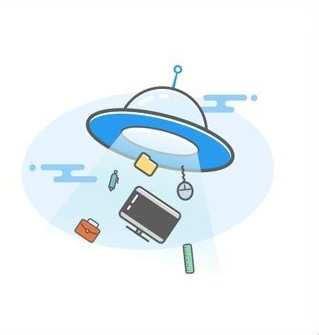
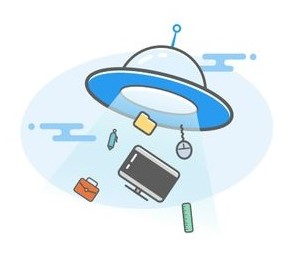
add css style

diff --git a/css/main.css b/css/main.css
@@ -1,41 +1,61 @@
     
-    body{
-    background-color: rgb(255, 255, 255);
+   body * {
+        box-sizing: border-box;
+        margin: 0;
+        padding: 0;
+   }
+
+   body{
+        background-color: rgb(255, 255, 255);
     }
 
     main{
         display: inline-block;
-        width: 50%; 
+        width: 50%;
         margin-top: 10%; 
         margin-left: 25%;
     }
 
     div{
-        width: 35%; 
+        width: 40%;
+        /*width: calc(30% - 100px);*/
+        padding: 5%;
+        /*border: 50px solid violet;*/
         float: left;
         margin-top: 50px;
+        background-color: yellow;
     } 
     
     h1{
-        font-size: 100px;
-        font-family: Arial;
-        margin: 0;
-        color:rgb(0, 119, 255);
+        display: inline-block;
+        font-size: 80px;
+        font-family: Tahoma;
+        color:blue;
     }
 
     p{
-        margin: 0;
         font-size: 30px;
         text-transform: uppercase;
         font-family: Tahoma;
     }
 
     a{
-        
+        display: inline-block;
+        margin-top: 30px;
+        padding: 10px;
+        padding-left: 30px;
+        padding-right: 30px;
+        font-size: 20px;
+        font-family: Arial, Helvetica, sans-serif;
+        text-decoration: none;
+        color: blue;
+        border: 4px solid blue;
+        border-radius: 50%;
+
     }
 
     img{
-        width: 55%;
+        width: 60%;
         float: right;
     }
 
